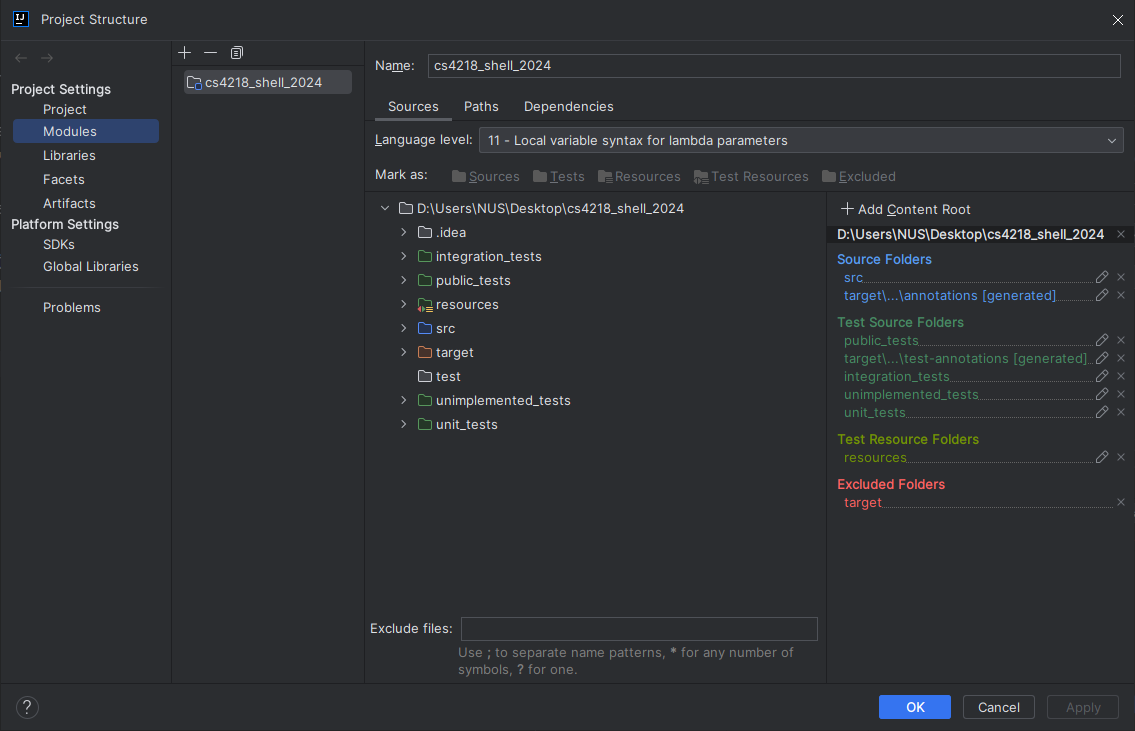
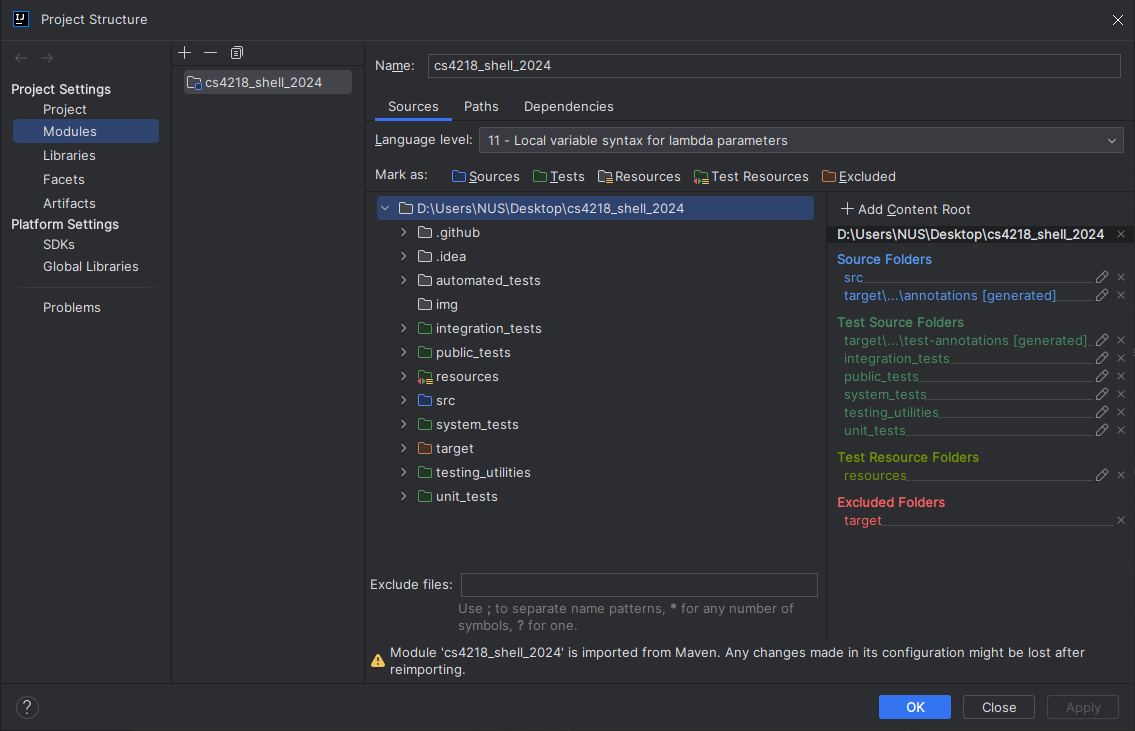
Update README to reflect new fies to mark as "Test"

diff --git a/README.md b/README.md
@@ -1,6 +1,3 @@
-# CS4218codebase
-codebase for CS4218, 23/24 Sem2
-
 # Setup Project Structure
 1. Go to [File] > [Project Structure]... (or press _Ctrl+Alt+Shift+S_)\
    ![Screenshot of File to Project Structure](img/img.png)
@@ -15,7 +12,9 @@ codebase for CS4218, 23/24 Sem2
 9. Under the _Sources_ tab, you should see a list of directories
 10. Mark the following as ![Test](img/img_5.png):
     - integration_tests
-    - unimplemented_tests
+    - public_tests
+    - system_tests
+    - testing_utilities
     - unit_tests
 11. Mark the "resources" directory as ![Test Resources](img/img_6.png)
 12. You should have something that looks like this:\
